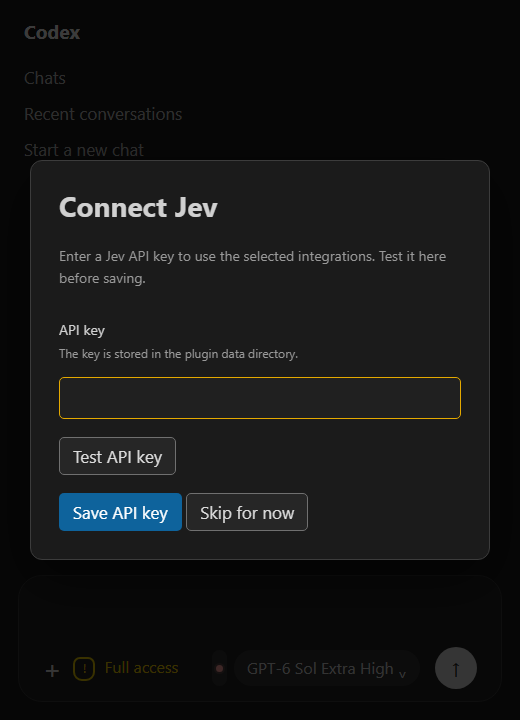
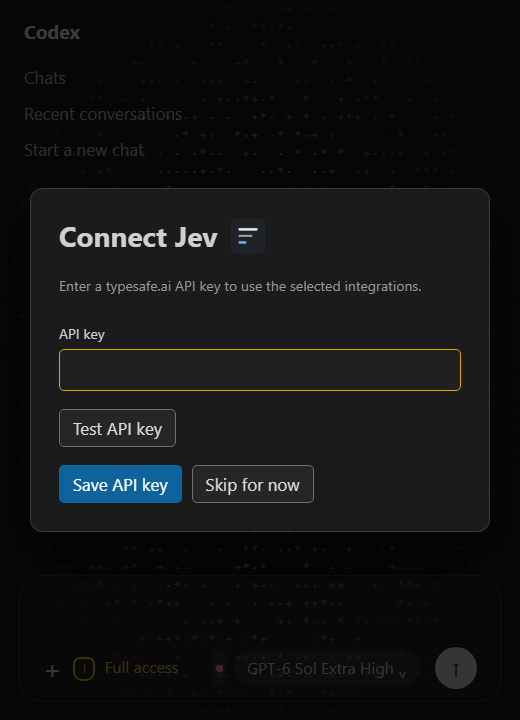
Refine Jev setup overlay and missing-key tooltip

diff --git a/vscode-control/webview/jev-control.js b/vscode-control/webview/jev-control.js
@@ -139,6 +139,8 @@
       .codex-jev-option small { display: block; color: var(--vscode-descriptionForeground, #aaa); font-size: 11px; line-height: 15px; margin-top: 1px; }
       #codex-jev-menu p { margin: 5px 0 0; padding: 9px 10px 4px; border-top: 1px solid var(--vscode-menu-separatorBackground, #ffffff1a); color: var(--vscode-descriptionForeground, #999); font-size: 11px; }
       #codex-jev-tip { display: none; width: min(420px, calc(100vw - 24px)); padding: 11px 13px; border: 1px solid #454545; border-radius: 11px; background: #292929; color: #dedede; pointer-events: auto; font-size: 12px; line-height: 1.45; white-space: normal; }
+      #codex-jev-tip[data-needs-key="true"] { width: min(252px, calc(100vw - 24px)); padding: 9px 11px; }
+      #codex-jev-tip[data-needs-key="true"] #codex-jev-mode, #codex-jev-tip[data-needs-key="true"] #codex-jev-session-heading, #codex-jev-tip[data-needs-key="true"] #codex-jev-stats, #codex-jev-tip[data-needs-key="true"] #codex-jev-tokens, #codex-jev-tip[data-needs-key="true"] #codex-jev-history-heading, #codex-jev-tip[data-needs-key="true"] #codex-jev-history, #codex-jev-tip[data-needs-key="true"] #codex-jev-empty { display: none !important; }
       #codex-jev-tip::after { content: ""; position: absolute; top: 100%; left: 0; right: 0; height: 10px; }
       #codex-jev:hover #codex-jev-tip, #codex-jev:focus-within #codex-jev-tip { display: block; }
       #codex-jev[data-menu="true"] #codex-jev-tip { display: none; }
@@ -158,13 +160,18 @@
       #codex-jev-history li { margin-top: 3px; }
       #codex-jev-history strong { font-weight: 700; color: #fff; }
       #codex-jev-empty { margin: 0; color: #888; }
-      #codex-jev-connect { position: fixed; inset: 0; z-index: 2147483640; display: none; align-items: center; justify-content: center; box-sizing: border-box; overflow: auto; padding: 20px; background: #000b; color: var(--vscode-foreground, #d0d0d0); font-family: inherit; }
+      #codex-jev-connect { position: fixed; inset: 0; z-index: 2147483640; display: none; align-items: center; justify-content: center; box-sizing: border-box; overflow: auto; padding: 20px; background: #000b; color: var(--vscode-foreground, #d0d0d0); font-family: inherit; isolation: isolate; }
       #codex-jev-connect * { box-sizing: border-box; }
-      #codex-jev-connect-card { width: min(100%, 460px); margin: auto; padding: 28px; border: 1px solid var(--vscode-panel-border, #3c3c3c); border-radius: 12px; background: var(--vscode-editor-background, #1b1b1b); box-shadow: 0 20px 60px #0008; }
-      #codex-jev-connect h1 { margin: 0 0 22px; font-size: clamp(28px, 5vw, 36px); line-height: 1.2; }
-      #codex-jev-connect p { margin: 0 0 32px; color: var(--vscode-descriptionForeground, #999); font-size: 14px; line-height: 1.55; }
+      #codex-jev-connect-art { position: absolute; inset: 0; overflow: hidden; pointer-events: none; mask-image: radial-gradient(ellipse at center, #000 20%, #0009 48%, transparent 80%); }
+      #codex-jev-connect-art pre { position: absolute; top: 50%; left: 50%; margin: 0; color: #bdc9d3; opacity: .18; font: 12px/18px monospace; letter-spacing: 2px; white-space: pre; animation: codex-jev-art-drift 14s ease-in-out infinite alternate; }
+      @keyframes codex-jev-art-drift { from { transform: translate(-52%, -51%) rotate(-2deg); } to { transform: translate(-48%, -49%) rotate(2deg); } }
+      @media (prefers-reduced-motion: reduce) { #codex-jev-connect-art pre { animation: none; transform: translate(-50%, -50%); } }
+      #codex-jev-connect-card { position: relative; width: min(100%, 460px); margin: auto; padding: 28px; border: 1px solid var(--vscode-panel-border, #3c3c3c); border-radius: 12px; background: var(--vscode-editor-background, #1b1b1b); box-shadow: 0 20px 60px #0008; }
+      #codex-jev-connect-heading { display: flex; align-items: center; gap: 12px; margin-bottom: 20px; }
+      #codex-jev-connect h1 { margin: 0; font-size: clamp(28px, 5vw, 36px); line-height: 1.2; }
+      #codex-jev-connect-icon { width: 38px; height: 38px; object-fit: contain; flex: none; }
+      #codex-jev-connect p { margin: 0 0 28px; color: var(--vscode-descriptionForeground, #999); font-size: 14px; line-height: 1.5; }
       #codex-jev-connect label { display: block; margin-bottom: 6px; font-size: 14px; }
-      #codex-jev-connect small { display: block; margin-bottom: 14px; color: var(--vscode-descriptionForeground, #999); font-size: 12px; line-height: 1.45; }
       #codex-jev-key { width: 100%; height: 42px; padding: 8px 10px; border: 1px solid var(--vscode-input-border, #555); border-radius: 5px; outline: none; background: var(--vscode-input-background, #202020); color: var(--vscode-input-foreground, #ddd); font: inherit; }
       #codex-jev-key:focus { border-color: var(--vscode-focusBorder, #e4a900); }
       #codex-jev-connect-actions { display: flex; align-items: center; flex-wrap: wrap; gap: 10px; margin-top: 18px; }
@@ -172,8 +179,11 @@
       #codex-jev-connect button:hover { background: var(--vscode-button-secondaryHoverBackground, #353535); }
       #codex-jev-connect button:focus-visible { outline: 2px solid var(--vscode-focusBorder, #83bcf7); outline-offset: 2px; }
       #codex-jev-connect button:disabled { opacity: .55; cursor: default; }
-      #codex-jev-connect #codex-jev-save-key { margin-top: 18px; border-color: transparent; background: var(--vscode-button-background, #0e639c); color: var(--vscode-button-foreground, #fff); }
+      #codex-jev-connect-footer { display: flex; align-items: center; gap: 10px; margin-top: 18px; }
+      #codex-jev-connect-footer button { white-space: nowrap; }
+      #codex-jev-connect #codex-jev-save-key { border-color: transparent; background: var(--vscode-button-background, #0e639c); color: var(--vscode-button-foreground, #fff); }
       #codex-jev-connect #codex-jev-save-key:hover { background: var(--vscode-button-hoverBackground, #1177bb); }
+      @media (max-width: 350px) { #codex-jev-connect-card { padding: 18px; } #codex-jev-connect-footer { gap: 6px; } #codex-jev-connect-footer button { padding-inline: 8px; font-size: 12px; } }
       #codex-jev-key-status { min-width: 0; font-size: 12px; font-weight: 600; }
       #codex-jev-key-status[data-ok="true"] { color: var(--vscode-testing-iconPassed, #4ec97f); }
       #codex-jev-key-status[data-ok="false"] { color: var(--vscode-errorForeground, #f48771); }
@@ -191,8 +201,13 @@
     setup.setAttribute("role", "dialog");
     setup.setAttribute("aria-modal", "true");
     setup.setAttribute("aria-labelledby", "codex-jev-connect-title");
-    setup.innerHTML = `<div id="codex-jev-connect-card"><h1 id="codex-jev-connect-title">Connect Jev</h1><p>Enter a Jev API key to use the selected integrations. Test it here before saving.</p><label for="codex-jev-key">API key</label><small>The key is stored in the plugin data directory.</small><input id="codex-jev-key" type="password" autocomplete="off" spellcheck="false" maxlength="4096"><div id="codex-jev-connect-actions"><button id="codex-jev-test-key" type="button">Test API key</button><span id="codex-jev-key-status" role="status" aria-live="polite"></span></div><button id="codex-jev-save-key" type="button">Save API key</button> <button id="codex-jev-skip-key" type="button">Skip for now</button></div>`;
+    setup.innerHTML = `<div id="codex-jev-connect-art" aria-hidden="true"><pre></pre></div><div id="codex-jev-connect-card"><div id="codex-jev-connect-heading"><h1 id="codex-jev-connect-title">Connect Jev</h1><img id="codex-jev-connect-icon" src="./assets/jev-icon.png" alt=""></div><p>Enter a typesafe.ai API key to use the selected integrations.</p><label for="codex-jev-key">API key</label><input id="codex-jev-key" type="password" autocomplete="off" spellcheck="false" maxlength="4096"><div id="codex-jev-connect-actions"><button id="codex-jev-test-key" type="button">Test API key</button><span id="codex-jev-key-status" role="status" aria-live="polite"></span></div><div id="codex-jev-connect-footer"><button id="codex-jev-save-key" type="button">Save API key</button><button id="codex-jev-skip-key" type="button">Skip for now</button></div></div>`;
     document.body.appendChild(setup);
+    setup.querySelector("#codex-jev-connect-art pre").textContent = Array.from({ length: 48 }, (_, row) =>
+      Array.from({ length: 76 }, (_, column) => {
+        const value = Math.abs(Math.sin(row * 19.31 + column * 37.17) * 10000) % 1;
+        return value > .88 ? "*" : value > .73 ? "+" : value > .5 ? "·" : " ";
+      }).join("")).join("\n");
     setup.addEventListener("click", (event) => event.stopPropagation());
     setup.addEventListener("keydown", (event) => event.stopPropagation());
     setup.querySelector("#codex-jev-key").addEventListener("input", () => showKeyStatus("", false));
@@ -232,6 +247,11 @@
     });
     root.querySelector("#codex-jev-retry").addEventListener("click", (event) => {
       event.stopPropagation();
+      if (state.needsKey) {
+        setupDismissed = false;
+        render();
+        return;
+      }
       if (retryRequestId) return;
       retryRequestId = send("retryConnection");
       render();
@@ -266,17 +286,18 @@
     root.querySelector("#codex-jev-option").setAttribute("aria-checked", String(state.outputEnabled));
     root.querySelector("#codex-jev-test-build").setAttribute("aria-checked", String(state.testBuildEnabled));
     root.querySelector("#codex-jev-search-listing").setAttribute("aria-checked", String(state.searchListingEnabled));
-    const status = !state.enabled ? "Jev off" : state.health?.ok === true ? "Jev connected" :
+    const status = !state.enabled ? "Jev off" : needsSetup ? "API key needed" : state.health?.ok === true ? "Jev connected" :
       state.health?.ok === false ? "Jev unavailable" : "Checking Jev connection";
+    root.querySelector("#codex-jev-tip").dataset.needsKey = String(needsSetup);
     root.querySelector("#codex-jev-health-row strong").textContent = status;
-    const unavailable = state.enabled && state.health?.ok === false;
+    const unavailable = state.enabled && (state.health?.ok === false || needsSetup);
     const reason = root.querySelector("#codex-jev-health-reason");
-    reason.textContent = unavailable ? `· ${healthReason(state.health.reason)}` : "";
-    reason.style.display = unavailable ? "inline" : "none";
+    reason.textContent = unavailable && !needsSetup ? `· ${healthReason(state.health.reason)}` : "";
+    reason.style.display = unavailable && !needsSetup ? "inline" : "none";
     const retry = root.querySelector("#codex-jev-retry");
     retry.style.display = unavailable ? "inline-block" : "none";
     retry.disabled = Boolean(retryRequestId);
-    retry.textContent = retryRequestId ? "Checking…" : "Retry";
+    retry.textContent = needsSetup ? "Connect" : retryRequestId ? "Checking…" : "Retry";
     root.querySelector("#codex-jev-mode").textContent = state.enabled ?
       `${[state.outputEnabled && "output", state.testBuildEnabled && "test/build", state.searchListingEnabled && "search/listing"].filter(Boolean).join(" + ")}${state.mode === "observe" ? " · observe" : ""}` : "No integrations selected. Click to choose.";
     const stats = state.stats || {};
@@ -304,7 +325,7 @@
       return item;
     }));
     root.querySelector("#codex-jev-empty").style.display = state.enabled && !history.length ? "block" : "none";
-    button.setAttribute("aria-label", `${status}${unavailable ? `: ${healthReason(state.health.reason)}` : ""}. This session: ${totals}. ${tokens}. ${history.join(". ") || state.recent}. Select Jev integrations`);
+    button.setAttribute("aria-label", `${status}${unavailable ? `: ${healthReason(state.health?.reason)}` : ""}. This session: ${totals}. ${tokens}. ${history.join(". ") || state.recent}. Select Jev integrations`);
   }
 
   function visibleRect(element) {
@@ -474,7 +495,7 @@
     item.style.right = `${Math.round(window.innerWidth - buttonLeft - width)}px`;
     item.style.top = `${Math.round(anchor.rect.top + anchor.rect.height / 2 - button.getBoundingClientRect().height / 2)}px`;
     alignPopup(item.querySelector("#codex-jev-menu"), 296, buttonLeft, buttonLeft + width);
-    alignPopup(item.querySelector("#codex-jev-tip"), 420, buttonLeft, buttonLeft + width);
+    alignPopup(item.querySelector("#codex-jev-tip"), state.needsKey ? 252 : 420, buttonLeft, buttonLeft + width);
     item.style.visibility = "";
   }
 

diff --git a/vscode-control/tests/browser_harness.html b/vscode-control/tests/browser_harness.html
@@ -294,12 +294,36 @@
       health = { ok: false, reason: "JEV_KEY_MISSING" };
       const setup = document.getElementById("codex-jev-connect");
       await until(() => setup.style.display === "flex", "missing key opens over Codex pane");
+      setup.querySelector("#codex-jev-connect-icon").src = "../icon.png";
       const bounds = setup.getBoundingClientRect();
       check(bounds.left === 0 && bounds.top === 0 && bounds.width === innerWidth &&
         bounds.height === innerHeight && setup.parentElement === document.body,
         "setup covers the Codex webview");
+      check(setup.textContent.includes("Enter a typesafe.ai API key to use the selected integrations.") &&
+        !setup.textContent.includes("Test it here before saving") &&
+        !setup.textContent.includes("plugin data directory"), "concise onboarding copy");
+      const footer = setup.querySelector("#codex-jev-connect-footer");
+      const saveButton = setup.querySelector("#codex-jev-save-key");
+      const skipButton = setup.querySelector("#codex-jev-skip-key");
+      check(Math.abs(saveButton.getBoundingClientRect().top - skipButton.getBoundingClientRect().top) < 1 &&
+        footer.contains(saveButton) && footer.contains(skipButton), "Save and Skip share a row");
+      check(setup.querySelector("#codex-jev-connect-icon").getAttribute("src") === "../icon.png" &&
+        getComputedStyle(setup.querySelector("#codex-jev-connect-art pre")).animationName ===
+          (matchMedia("(prefers-reduced-motion: reduce)").matches ? "none" : "codex-jev-art-drift"),
+        "Jev icon and motion-aware ASCII backdrop");
       setup.querySelector("#codex-jev-skip-key").click();
       check(setup.style.display === "none" && needsKey, "Skip restores Codex without saving a key");
+      const missingTip = document.getElementById("codex-jev-tip");
+      missingTip.style.display = "block";
+      check(missingTip.dataset.needsKey === "true" &&
+        missingTip.getBoundingClientRect().width <= 253 &&
+        getComputedStyle(missingTip.querySelector("#codex-jev-session-heading")).display === "none" &&
+        missingTip.querySelector("#codex-jev-retry").textContent === "Connect",
+        "missing-key tooltip is compact and action-oriented");
+      missingTip.style.display = "";
+      missingTip.querySelector("#codex-jev-retry").click();
+      check(setup.style.display === "flex", "tooltip Connect reopens setup");
+      skipButton.click();
       button.click();
       const reopen = document.getElementById("codex-jev-open-connect");
       check(reopen.style.display !== "none", "skipped setup remains reachable from Jev menu");
@@ -330,6 +354,9 @@
       document.getElementById("results").textContent = JSON.stringify({ ok: false, error: error.message,
         composer: document.querySelector(".composer").getBoundingClientRect().width,
         accessRight: document.querySelector(".access").getBoundingClientRect().right,
+        iconSrc: document.getElementById("codex-jev-connect-icon")?.getAttribute("src"),
+        animation: getComputedStyle(document.querySelector("#codex-jev-connect-art pre")).animationName,
+        reducedMotion: matchMedia("(prefers-reduced-motion: reduce)").matches,
         modelLeft: document.querySelector(".model").getBoundingClientRect().left,
         buttonWidth: button?.getBoundingClientRect().width, compact: control?.dataset.compact,
         display: control?.style.display, tooltip: document.getElementById("codex-jev-tip")?.textContent,

diff --git a/vscode-control/tests/visual_harness.html b/vscode-control/tests/visual_harness.html
@@ -35,8 +35,8 @@
         type: "codex-jev-reply", id: request.id,
         status: {
           enabled: true, outputEnabled: true, testBuildEnabled: true, searchListingEnabled: true,
-          needsKey: demo === "onboarding",
-          health: demo === "onboarding" ? { ok: false, reason: "JEV_KEY_MISSING" } :
+          needsKey: demo === "onboarding" || demo === "missing-key",
+          health: demo === "onboarding" || demo === "missing-key" ? { ok: false, reason: "JEV_KEY_MISSING" } :
             demo === "unavailable" ? { ok: false, reason: "JEV_TIMEOUT" } : { ok: true, model: "jev-1.13.0" },
           busy: demo === "pulse", mode: "replace", recent: history[0], history,
           stats: { calls: 1, candidates: 0, kept: 0, replaced: 1, checkedChars: 6367, savedChars: 6058, estimatedTokensSaved: 1515, elapsedMs: 1263, completed: 1 },
@@ -64,6 +64,8 @@
     setTimeout(() => {
       document.documentElement.style.setProperty("--screenshot-offset", `${Math.max(0, outerHeight - innerHeight)}px`);
       if (demo !== "composer") document.querySelector(".prompt").textContent = "";
+      if (demo === "onboarding") document.getElementById("codex-jev-connect-icon").src = "../icon.png";
+      if (demo === "missing-key") document.getElementById("codex-jev-skip-key").click();
       if (demo === "menu") document.getElementById("codex-jev-button").click();
       else if (demo !== "composer" && demo !== "onboarding") document.getElementById("codex-jev-tip").style.display = "block";
       const anchor = document.querySelector(".access").getBoundingClientRect();

diff --git a/vscode-control/patch_codex_webview.py b/vscode-control/patch_codex_webview.py
@@ -17,6 +17,7 @@ ORIGINAL = {
[1 lines of base64/hex data omitted]
 }
 ASSET = "webview/assets/jev-control.js"
+ICON_ASSET = "webview/assets/jev-icon.png"
 IMAGE_ASSET = "webview/assets/app-initial-de4359f78ed1.js"
[1 lines of base64/hex data omitted]
 IMAGE_ANCHOR = 'let i=SS(e);if(i==null)return null;try{let e={path:i,hostId:t}'
@@ -150,7 +151,7 @@ def apply(root: Path, backup: Path) -> None:
     source_asset = Path(__file__).with_name("webview") / "jev-control.js"
     if not source_asset.is_file():
         raise RuntimeError("missing composer control source")
-    if (root / ASSET).exists() or (root / ASSET).is_symlink():
+    if any((root / asset).exists() or (root / asset).is_symlink() for asset in (ASSET, ICON_ASSET)):
         raise RuntimeError("Codex asset already exists")
     source = {}
     for relative, expected in ORIGINAL.items():
@@ -168,6 +169,7 @@ def apply(root: Path, backup: Path) -> None:
         "out/extension.js": js.replace(ANCHOR, BRIDGE).encode("utf-8"),
         "webview/index.html": html.replace(MODULE, SCRIPT + MODULE).encode("utf-8"),
         ASSET: source_asset.read_bytes(),
+        ICON_ASSET: exact_file(Path(__file__).parent, "icon.png").read_bytes(),
         IMAGE_ASSET: image_patched,
     }
     if not existing_backup:
@@ -189,7 +191,7 @@ def apply(root: Path, backup: Path) -> None:
     try:
         for relative, data in changed.items():
             target = root / relative
-            if relative == ASSET:
+            if relative in (ASSET, ICON_ASSET):
                 target.write_bytes(data)
             else:
                 write_exact(target, data)
@@ -201,6 +203,7 @@ def apply(root: Path, backup: Path) -> None:
         for relative, data in source.items():
             write_exact(root / relative, data)
         (root / ASSET).unlink(missing_ok=True)
+        (root / ICON_ASSET).unlink(missing_ok=True)
         write_exact(root / IMAGE_ASSET, image_original)
         raise
 
@@ -225,6 +228,8 @@ def restore(root: Path, backup: Path) -> None:
             raise RuntimeError("image rollback file changed")
         write_exact(root / IMAGE_ASSET, original_image)
     (root / ASSET).unlink()
+    if ICON_ASSET in manifest["patched"]:
+        (root / ICON_ASSET).unlink()
 
 
 def update(root: Path, backup: Path) -> None:
@@ -256,9 +261,13 @@ def update(root: Path, backup: Path) -> None:
     changed = {
         "out/extension.js": js.replace(ANCHOR, BRIDGE).encode("utf-8"),
         ASSET: exact_file(source_asset.parent, source_asset.name).read_bytes(),
+        ICON_ASSET: exact_file(Path(__file__).parent, "icon.png").read_bytes(),
         IMAGE_ASSET: image_patched,
     }
-    previous = {relative: exact_file(root, relative).read_bytes() for relative in changed}
+    if ICON_ASSET not in manifest["patched"] and ((root / ICON_ASSET).exists() or (root / ICON_ASSET).is_symlink()):
+        raise RuntimeError("Codex icon asset already exists")
+    previous = {relative: exact_file(root, relative).read_bytes() for relative in changed
+                if relative != ICON_ASSET or ICON_ASSET in manifest["patched"]}
     for relative, data in changed.items():
         manifest["patched"][relative] = digest(data)
     manifest["originalImage"] = IMAGE_ORIGINAL
@@ -273,6 +282,8 @@ def update(root: Path, backup: Path) -> None:
     except Exception:
         for relative, data in previous.items():
             write_exact(root / relative, data)
+        if ICON_ASSET not in previous:
+            (root / ICON_ASSET).unlink(missing_ok=True)
         write_exact(manifest_path, previous_manifest)
         raise
 

diff --git a/vscode-control/tests/test_patch_codex_webview.py b/vscode-control/tests/test_patch_codex_webview.py
@@ -102,6 +102,8 @@ class PatchTests(unittest.TestCase):
         self.assertIn("viewId", (self.extension / "out/extension.js").read_text())
         self.assertEqual((self.extension / patch.ASSET).read_bytes(),
                          (SOURCE.parent / "webview/jev-control.js").read_bytes())
+        self.assertEqual((self.extension / patch.ICON_ASSET).read_bytes(),
+                         (SOURCE.parent / "icon.png").read_bytes())
         self.assertIn(b"wsl.localhost", (self.extension / patch.IMAGE_ASSET).read_bytes())
 
         patch.update(self.extension, self.backup)
@@ -116,8 +118,24 @@ class PatchTests(unittest.TestCase):
         host.write_bytes(host.read_bytes()[:-8])
         patch.restore(self.extension, self.backup)
         self.assertFalse((self.extension / patch.ASSET).exists())
+        self.assertFalse((self.extension / patch.ICON_ASSET).exists())
         for relative, content in self.original.items():
             self.assertEqual((self.extension / relative).read_bytes(), content)
+
+    def test_update_adds_icon_to_previous_patch(self):
+        patch.apply(self.extension, self.backup)
+        manifest_path = self.backup / "manifest.json"
+        manifest = json.loads(manifest_path.read_text())
+        del manifest["patched"][patch.ICON_ASSET]
+        manifest_path.write_text(json.dumps(manifest))
+        (self.extension / patch.ICON_ASSET).unlink()
+        patch.update(self.extension, self.backup)
+        upgraded = json.loads(manifest_path.read_text())
+        self.assertEqual((self.extension / patch.ICON_ASSET).read_bytes(),
+                         (SOURCE.parent / "icon.png").read_bytes())
+        self.assertIn(patch.ICON_ASSET, upgraded["patched"])
+        patch.restore(self.extension, self.backup)
+        self.assertFalse((self.extension / patch.ICON_ASSET).exists())
 
 
 if __name__ == "__main__":

diff --git a/vscode-control/scripts/browser_smoke.py b/vscode-control/scripts/browser_smoke.py
@@ -19,10 +19,11 @@ def main() -> None:
         target = windows_path(ROOT / 'tests/browser_harness.html').replace('\\', '/')
         address = 'file:///' + quote(target, safe='/:')
         reports = []
-        for width in (720, 1200):
+        for width, motion in ((720, 'no-preference'), (1200, 'reduce')):
             result = subprocess.run([
                 str(edge), '--headless', '--disable-gpu', '--no-first-run',
                 '--no-default-browser-check', '--disable-extensions',
+                f'--force-prefers-reduced-motion={motion}',
                 '--virtual-time-budget=3000', f'--window-size={width},600',
                 f'--user-data-dir={windows_path(profile / f"viewport-{width}")}',
                 '--dump-dom', address,
@@ -33,7 +34,7 @@ def main() -> None:
             outcome = json.loads(match.group(1).replace('&quot;', '"'))
             if not outcome.get('ok'):
                 raise AssertionError({'viewport': width, **outcome})
-            reports.append({'viewport': width, **outcome})
+            reports.append({'viewport': width, 'motion': motion, **outcome})
         print(json.dumps(reports))
     finally:
         remove_profile(profile, 'jev-edge-test-')

diff --git a/vscode-control/scripts/capture_docs.py b/vscode-control/scripts/capture_docs.py
@@ -25,6 +25,7 @@ def main() -> None:
             ('menu', 'jev-menu.png', 620, 340),
             ('tooltip', 'jev-tooltip.png', 620, 280),
             ('unavailable', 'jev-unavailable.png', 620, 280),
+            ('missing-key', 'jev-missing-key.png', 340, 260),
             ('onboarding', 'jev-onboarding.png', 520, 720),
         ]
         for state, name, width, height in captures:

diff --git a/vscode-control/README.md b/vscode-control/README.md
@@ -8,7 +8,7 @@ Build the VSIX from this checkout, then run:
 
 ```bash
 npx @vscode/vsce package --no-dependencies
-code --install-extension codex-jev-control-0.2.10.vsix --force
+code --install-extension codex-jev-control-0.2.11.vsix --force
 ```
 
 Set `codexJev.dataDirectory` to the installed plugin's absolute `PLUGIN_DATA` path (on Windows, a `\\wsl.localhost\<distro>\...` path for a WSL installation). `CODEX_JEV_DATA_DIRECTORY` is an alternative. The extension has no machine-specific default. It reads `PLUGIN_DATA/.env` to probe API health. During first setup, the entered key travels through the local Codex webview bridge to the extension; it is not sent as chat text. See [key setup](../docs/setup/setup_credentials.md).
@@ -25,9 +25,11 @@ Use `update` to refresh an already patched installation, or `restore` with the s
 
 ## Use it
 
-Select integrations in the composer menu. An empty selection turns Jev off. When an integration is enabled without a key, **Connect Jev** covers the Codex side window. Test and save the key there, or choose **Skip for now** to return to Codex; **Connect Jev…** in the Jev menu reopens it. Open **Codex settings → Jev settings** later to test the saved key, replace it, change the mode, and adjust each hook's Jev cutoffs. The saved key appears as `********` and is never sent back to the webview. The Test button shows `OK` or a short failure reason beside it. The default mode is `replace`; `observe` records decisions while keeping full tool output. A selection or cutoff change applies when the next tool result completes. A new plugin installation or hook-code change requires a new Codex thread.
+Select integrations in the composer menu. An empty selection turns Jev off. When an integration is enabled without a key, **Connect Jev** covers the Codex side window and asks for a typesafe.ai API key. Test and save the key there, or choose **Skip for now** to return to Codex; **Connect Jev…** in the Jev menu or **Connect** in the compact missing-key tooltip reopens it. Open **Codex settings → Jev settings** later to test the saved key, replace it, change the mode, and adjust each hook's Jev cutoffs. The saved key appears as `********` and is never sent back to the webview. The Test button shows `OK` or a short failure reason beside it. The default mode is `replace`; `observe` records decisions while keeping full tool output. A selection or cutoff change applies when the next tool result completes. A new plugin installation or hook-code change requires a new Codex thread.
 
 ![Connect Jev setup overlay in the Codex side window with Skip for now](../docs/images/jev-onboarding.png)
+
+![Compact Jev missing-key tooltip](../docs/images/jev-missing-key.png)
 
 ![Jev settings page showing example mode and output filter cutoffs](../docs/images/jev-settings.png)
 

diff --git a/docs/architecture/design_vscode.md b/docs/architecture/design_vscode.md
@@ -2,7 +2,7 @@
 
 The companion extension connects the Jev button in the Codex composer to the installed plugin. The button opens three checkboxes. The menu stays open while selections change; click outside or press Escape to close it. Clear all checkboxes to turn Jev off. The extension checks Jev health and reads recent decision metadata.
 
-The first selected integration opens a full overlay inside the Codex side window when the configured plugin data directory has no readable API key. Skip dismisses it for that window, and a Jev menu item reopens it. The entered key passes through the local Codex webview bridge to the extension for testing or storage. The settings page shows a fixed mask for a saved key and never sends that saved value back to a webview. An empty key field there tests or keeps the saved key. Test results appear beside the bordered button, with explicit reasons for invalid, expired, or unavailable connections.
+The first selected integration opens a full overlay inside the Codex side window when the configured plugin data directory has no readable API key. The overlay uses a subdued, animated ASCII field inspired by the installed Codex sign-in screen, with a static fallback for reduced motion. Skip dismisses it for that window; the Jev menu and compact missing-key tooltip reopen it. The entered key passes through the local Codex webview bridge to the extension for testing or storage. The settings page shows a fixed mask for a saved key and never sends that saved value back to a webview. An empty key field there tests or keeps the saved key. Test results appear beside the bordered button, with explicit reasons for invalid, expired, or unavailable connections.
 
 The button stays on the toolbar row and beside the model control when Codex shows icon-only controls or the gap closes. Once it becomes a dot, it stays a dot as the pane gets narrower. Gray means off, green means connected, red means unavailable, and blue means a request is in progress. `OBS` marks observe mode when the full label fits. The tooltip shows activity for the current composer view, with a new view starting at zero. Recent actions show bold negative percentages for reductions. The token total estimates model-visible text saved from the removed character count using [OpenAI's rough four-characters-per-token rule](https://developers.openai.com/api/docs/concepts#tokens); it is not a billed-token count. A failed health check shows a short reason and Retry button, and the extension rechecks failed connections every 30 seconds.
 

diff --git a/README.md b/README.md
@@ -18,9 +18,11 @@ All integrations start off. The button in the Codex composer selects them and sh
 
 ## Settings
 
-Selecting a Jev integration without a key opens **Connect Jev** over the Codex side window. You can test and save the key there, or choose **Skip for now** and reopen setup from the Jev menu. In **Codex settings → Jev settings**, the saved key appears as `********`; enter a different key to replace it, or test the saved key without changing it. A bordered Test button shows `OK` or a short failure reason beside it. The page also controls `observe`, `replace`, and the cutoffs for each integration. Changes apply to the next tool result. The captures use example state and contain no key.
+Selecting a Jev integration without a key opens **Connect Jev** over the Codex side window. The prompt asks for a typesafe.ai API key. You can test and save it there, or choose **Skip for now** and reopen setup from the Jev menu or the compact missing-key tooltip. In **Codex settings → Jev settings**, the saved key appears as `********`; enter a different key to replace it, or test the saved key without changing it. A bordered Test button shows `OK` or a short failure reason beside it. The page also controls `observe`, `replace`, and the cutoffs for each integration. Changes apply to the next tool result. The captures use example state and contain no key.
 
 <img src="docs/images/jev-onboarding.png" width="520" alt="Connect Jev API key setup over the Codex side window, with a Skip for now button">
+
+<img src="docs/images/jev-missing-key.png" width="340" alt="Compact Jev tooltip with a Connect button when no API key is saved">
 
 <img src="docs/images/jev-settings.png" width="900" alt="Jev settings page with API key controls, behavior mode, and output filter cutoffs">
 
@@ -45,7 +47,7 @@ codex plugin marketplace add https://github.com/PhilippElhaus/Codex-Jev
 codex plugin add codex-jev@codex-jev
 ```
 
-Build the [VS Code control VSIX](vscode-control/README.md) and install `codex-jev-control-0.2.10.vsix`. Set `codexJev.dataDirectory` to the plugin data directory, and apply the version-pinned composer patch. Enable an integration to open key setup when no key is saved. Start a new Codex thread.
+Build the [VS Code control VSIX](vscode-control/README.md) and install `codex-jev-control-0.2.11.vsix`. Set `codexJev.dataDirectory` to the plugin data directory, and apply the version-pinned composer patch. Enable an integration to open key setup when no key is saved. Start a new Codex thread.
 
 ## Documentation
 

diff --git a/docs/setup/setup_credentials.md b/docs/setup/setup_credentials.md
@@ -18,6 +18,6 @@ The parser treats the value as text. It does not execute shell code. The hook se
 
 Set `codexJev.dataDirectory` in VS Code to the same absolute directory. For a WSL installation used by Windows VS Code, use a `\\wsl.localhost\<distro>\...` path. `CODEX_JEV_DATA_DIRECTORY` is an alternative setting for the control and the live benchmark scripts.
 
-Enabling an integration without a key opens **Connect Jev** over the Codex side window. Enter the key there, test it, then save it. **Skip for now** closes the prompt without saving; **Connect Jev…** in the Jev menu reopens it. In **Codex settings → Jev settings**, a saved key appears as `********`, with no saved key value sent to the webview. Click **Test API key** with the field unchanged to test the saved key; enter a different key to test or save a replacement. The result appears beside the button. Changes to hook cutoffs also live there.
+Enabling an integration without a key opens **Connect Jev** over the Codex side window. Enter a typesafe.ai API key there, test it, then save it. **Skip for now** closes the prompt without saving; **Connect Jev…** in the Jev menu and **Connect** in the missing-key tooltip reopen it. In **Codex settings → Jev settings**, a saved key appears as `********`, with no saved key value sent to the webview. Click **Test API key** with the field unchanged to test the saved key; enter a different key to test or save a replacement. The result appears beside the button. Changes to hook cutoffs also live there.
 
 See [data handling](../architecture/design_data.md) for the text sent to Jev and the saved originals.

diff --git a/docs/setup/setup_installation.md b/docs/setup/setup_installation.md
@@ -14,7 +14,7 @@ For VS Code, build the companion VSIX from this checkout, then install it:
 ```bash
 cd vscode-control
 npx @vscode/vsce package --no-dependencies
-code --install-extension codex-jev-control-0.2.10.vsix --force
+code --install-extension codex-jev-control-0.2.11.vsix --force
 ```
 
 Set `codexJev.dataDirectory` to the installed plugin's absolute `PLUGIN_DATA` directory. Enabling an integration opens key setup if no key is saved. The [credential setup](setup_credentials.md) explains that directory and the Jev key. Apply the [version-pinned Codex composer patch](../../vscode-control/README.md#install-the-companion-extension).
